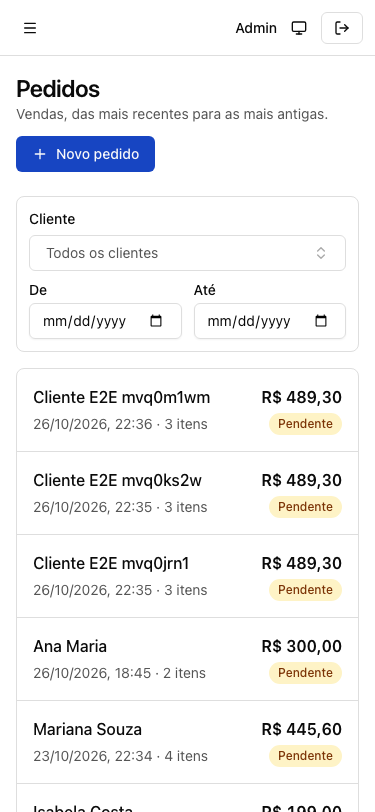
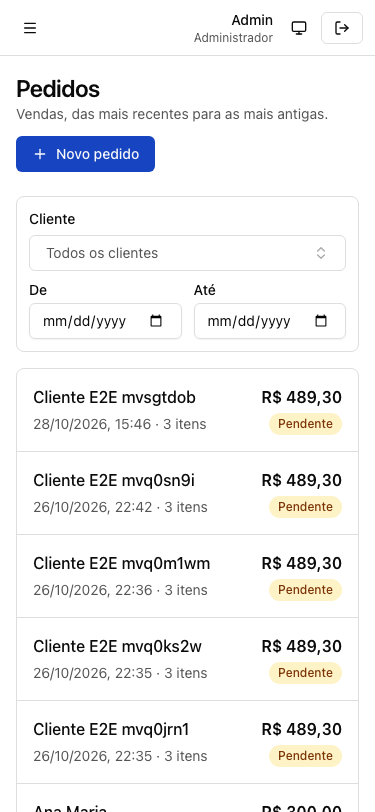
test(web): e2e de papéis contra a API real (vendedor, gerente, admin) e prints atualizados

diff --git a/apps/web/e2e/roles.e2e.ts b/apps/web/e2e/roles.e2e.ts
@@ -1,0 +1,50 @@
+import { expect, test } from '@playwright/test';
+import { login } from './support';
+
+/** Papéis contra a API real: menu, botões e 403 pela URL (usuários do seed). */
+test('vendedor: sem Usuários no menu, sem excluir e 403 pela URL', async ({
+  page,
+}) => {
+  await login(page, 'SELLER');
+  const nav = page.getByRole('navigation', { name: 'Principal' }).first();
+  await expect(nav.getByRole('link', { name: 'Pedidos' })).toBeVisible();
+  await expect(nav.getByRole('link', { name: 'Usuários' })).toHaveCount(0);
+  await expect(page.getByRole('link', { name: /Vendedor/ })).toBeVisible();
+
+  await page.goto('/products');
+  await expect(page.getByRole('table', { name: 'Produtos' })).toBeVisible();
+  await expect(page.getByRole('button', { name: /^Excluir/ })).toHaveCount(0);
+  await expect(page.getByRole('link', { name: 'Novo produto' })).toHaveCount(0);
+
+  await page.goto('/users');
+  await expect(
+    page.getByRole('heading', { name: 'Acesso não permitido' }),
+  ).toBeVisible();
+});
+
+test('gerente: exclui produtos mas não gerencia usuários', async ({ page }) => {
+  await login(page, 'MANAGER');
+  await page.goto('/products');
+  await expect(
+    page.getByRole('button', { name: /^Excluir/ }).first(),
+  ).toBeVisible();
+  await page.goto('/users/new');
+  await expect(
+    page.getByRole('heading', { name: 'Acesso não permitido' }),
+  ).toBeVisible();
+});
+
+test('admin: vê e filtra os usuários do seed', async ({ page }) => {
+  await login(page, 'ADMIN');
+  await page
+    .getByRole('navigation', { name: 'Principal' })
+    .first()
+    .getByRole('link', { name: 'Usuários' })
+    .click();
+  const table = page.getByRole('table', { name: 'Usuários' });
+  await expect(table.getByText('gerente@sellmanager.dev')).toBeVisible();
+  await expect(table.getByText('vendedor@sellmanager.dev')).toBeVisible();
+  await page.screenshot({
+    path: 'docs/screenshots/usuarios-desktop-light.png',
+  });
+});

diff --git a/apps/web/e2e/support.ts b/apps/web/e2e/support.ts
@@ -1,12 +1,20 @@
 import { expect, type Page } from '@playwright/test';
 
-/** Credenciais criadas pelo seed da API. */
-export const ADMIN = { email: 'admin@sellmanager.dev', password: 'admin12345' };
+/** Credenciais criadas pelo seed da API (só dev). */
+export const SEED_USERS = {
+  ADMIN: { email: 'admin@sellmanager.dev', password: 'admin12345' },
+  MANAGER: { email: 'gerente@sellmanager.dev', password: 'gerente12345' },
+  SELLER: { email: 'vendedor@sellmanager.dev', password: 'vendedor12345' },
+} as const;
 
-export async function login(page: Page) {
+export async function login(
+  page: Page,
+  role: keyof typeof SEED_USERS = 'ADMIN',
+) {
+  const { email, password } = SEED_USERS[role];
   await page.goto('/login');
-  await page.getByLabel('E-mail').fill(ADMIN.email);
-  await page.getByLabel('Senha').fill(ADMIN.password);
+  await page.getByLabel('E-mail').fill(email);
+  await page.getByLabel('Senha').fill(password);
   await page.getByRole('button', { name: 'Entrar' }).click();
   await expect(page.getByRole('heading', { name: 'Dashboard' })).toBeVisible();
 }
